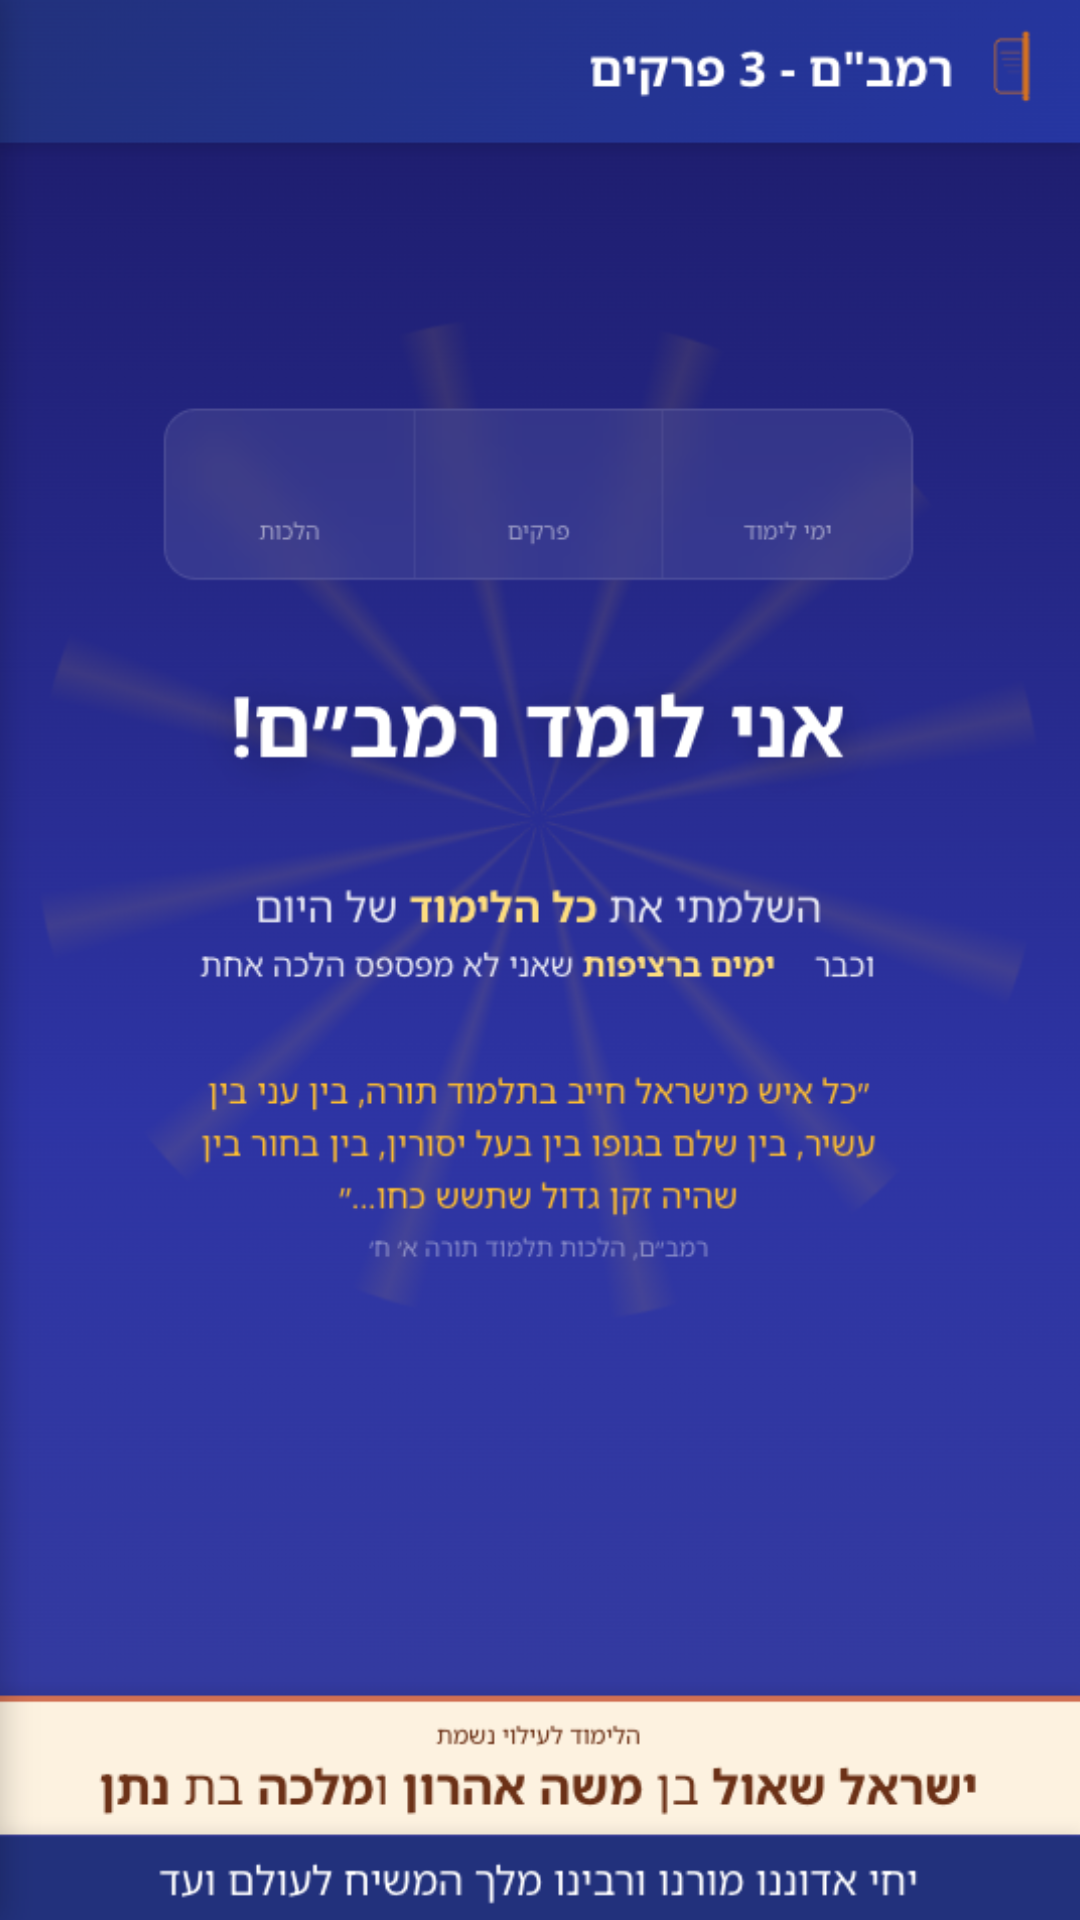
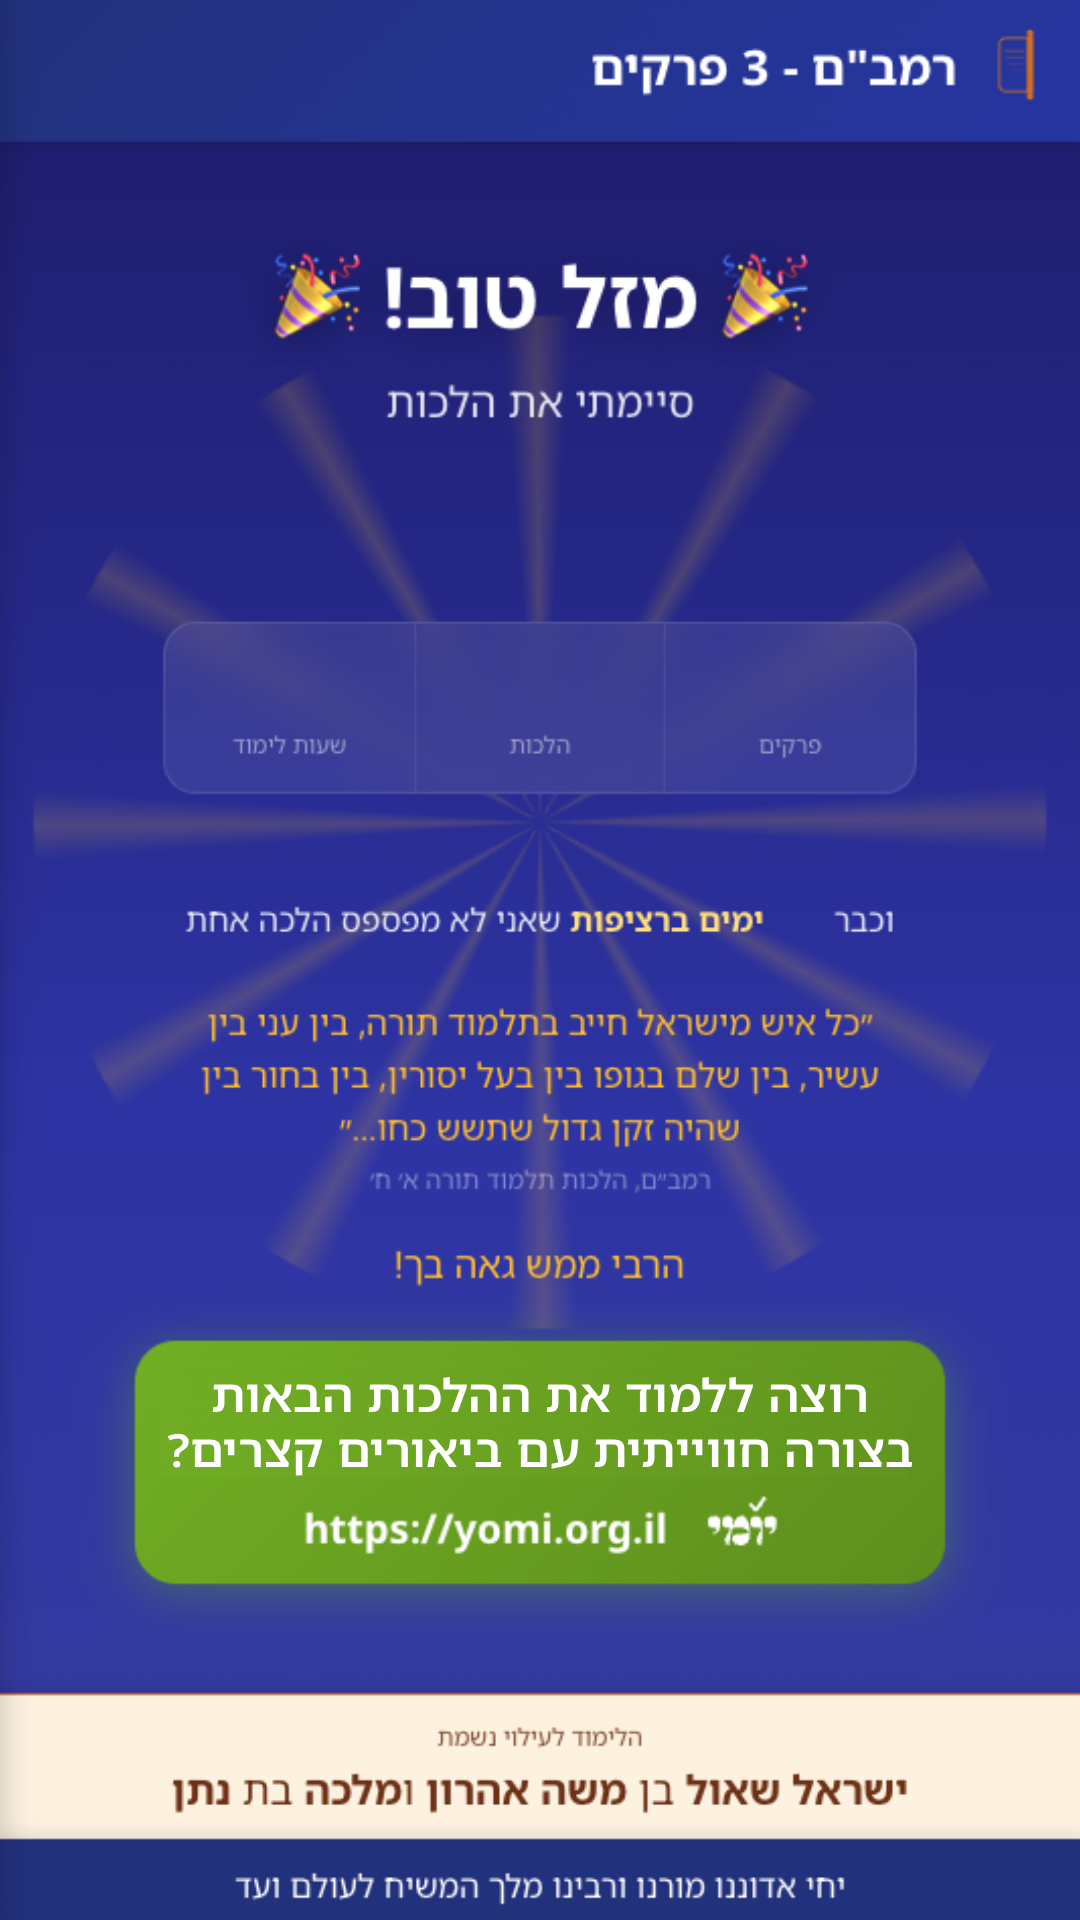
feat: add native share and clipboard for celebration
- implement PWA detection for native share with image and text
- add fallback to clipboard with both image and text
- update screenshot function to accept book celebration data
- use CORS-enabled CDN image with local fallback
- include book name, chapters, halakhot, time, and streak in screenshot
- update celebration background image layout
- copy share URL and text to clipboard alongside image
- add graceful error handling for clipboard operations

diff --git a/shared/core.js b/shared/core.js
@@ -711,7 +711,7 @@ function initCelebrationEffects() {
 
   // Capture celebration screen as image
   // Uses the external screenshot.js file for simple text overlay on background image
-  async function captureCelebrationScreenshot(days, halakhot, chapters) {
+  async function captureCelebrationScreenshot(chapterName, chapters, halachot, timelapse, days) {
     try {
       // Check if screenshot generator is loaded
       if (typeof window.generateCelebrationScreenshot !== 'function') {
@@ -720,7 +720,7 @@ function initCelebrationEffects() {
       }
 
       // Use the simple screenshot generator
-      return await window.generateCelebrationScreenshot(days, halakhot, chapters, 'https://rambam3.pages.dev');
+      return await window.generateCelebrationScreenshot(chapterName, chapters, halachot, timelapse, days);
     } catch (err) {
       console.error('Failed to capture screenshot:', err);
       return null;
@@ -728,23 +728,88 @@ function initCelebrationEffects() {
   }
 
   // Global share function for book celebration with confetti
-  window.celebrationShare = async function(bookName, totalChapters) {
+  window.celebrationShare = async function(bookName, totalChapters, totalHalakhot) {
     // Trigger confetti burst
     burst(60, 0);
     setTimeout(() => burst(40, 0), 1500);
 
-    // Build share URL based on plan
+    // Check if running as installed PWA
+    const isInstalled = window.matchMedia('(display-mode: standalone)').matches ||
+                        window.navigator.standalone === true;
+
+    // Build share URL
     const planId = window.PLAN?.id || 'rambam3';
     const shareUrl = `https://${planId}.pages.dev`;
+    const shareText = `סיימתי את הלכות ${bookName} ברמב״ם! 🎉\n\n${totalChapters} פרקים של ${totalHalakhot} הלכות\n\n${shareUrl}`;
 
-    // Build share text for book completion
-    const shareText = `סיימתי את הלכות ${bookName} ברמב״ם! 🎉\n\n${totalChapters} פרקים, רק כמה דקות ביום\n\n${shareUrl}`;
+    // Capture screenshot
+    try {
+      // Get the time spent on this book
+      const totalMinutes = getBookTime(bookName);
+      const formattedTime = formatLearningTime(totalMinutes);
 
-    // TODO: Capture screenshot with book celebration
-    // const screenshot = await captureCelebrationScreenshot(bookName, totalChapters);
+      // Get current streak (completed days)
+      const stats = computeStats();
+      const currentStreak = stats.completedDays;
 
-    // Call unified share function
-    await window.shareContent(shareText, null);
+      // captureCelebrationScreenshot expects: chapterName, chapters, halachot, timelapse, days
+      const blob = await captureCelebrationScreenshot(bookName, totalChapters, totalHalakhot, formattedTime, currentStreak);
+
+      if (!blob) {
+        alert('לא ניתן ליצור תמונה');
+        return;
+      }
+
+      // If installed as PWA, use native share
+      if (isInstalled && navigator.share && navigator.canShare) {
+        const file = new File([blob], 'celebration.png', { type: 'image/png' });
+        const shareData = {
+          text: shareText,
+          files: [file]
+        };
+
+        // Check if we can share files
+        if (navigator.canShare(shareData)) {
+          try {
+            await navigator.share(shareData);
+            return;
+          } catch (shareErr) {
+            // User cancelled or share failed, fall through to clipboard
+            if (shareErr.name !== 'AbortError') {
+              console.error('Native share failed:', shareErr);
+            }
+          }
+        }
+      }
+
+      // Fallback: Copy image and text to clipboard
+      try {
+        await navigator.clipboard.write([
+          new ClipboardItem({
+            'image/png': blob,
+            'text/plain': new Blob([shareText], { type: 'text/plain' })
+          })
+        ]);
+        alert('התמונה והטקסט הועתקו ללוח! ✅\nעכשיו אפשר להדביק בוואטסאפ או ברשתות חברתיות');
+      } catch (clipboardErr) {
+        console.error('Failed to copy to clipboard:', clipboardErr);
+        // Try copying just the image
+        try {
+          await navigator.clipboard.write([
+            new ClipboardItem({
+              'image/png': blob
+            })
+          ]);
+          alert('התמונה הועתקה ללוח! ✅\n(הטקסט לא הועתק אוטומטית)');
+        } catch (imageErr) {
+          console.error('Failed to copy image:', imageErr);
+          alert('לא ניתן להעתיק ללוח');
+        }
+      }
+    } catch (err) {
+      console.error('Failed to capture/copy screenshot:', err);
+      alert('שגיאה: ' + err.message);
+    }
   };
 }
 

diff --git a/shared/screenshot.js b/shared/screenshot.js
@@ -1,14 +1,17 @@
 // Screenshot generation for celebration sharing
 // Overlays dynamic text on a static background image
 
-async function generateCelebrationScreenshot(days, halakhot, chapters, url) {
+async function generateCelebrationScreenshot(chapterName, chapters, halachot, timelapse, days) {
   try {
-    // Load the static background image from local assets
+    // Load the static background image from ImgBB (CORS-enabled)
     const bgImage = new Image();
+    bgImage.crossOrigin = 'anonymous'; // Enable CORS
 
-    await new Promise((resolve, reject) => {
+    await new Promise((resolve) => {
       bgImage.onload = resolve;
-      bgImage.onerror = () => reject(new Error('Failed to load background image'));
+      bgImage.onerror = () => {
+        bgImage.src = 'https://i.ibb.co/ds16VmN9/celebration-bg.png';
+      };
       bgImage.src = './assets/celebration-bg.png';
     });
 
@@ -31,24 +34,23 @@ async function generateCelebrationScreenshot(days, halakhot, chapters, url) {
     ctx.textAlign = 'center';
     ctx.fillStyle = '#ffc107'; // Gold color for numbers
 
-    // Draw the 3 stats numbers (RTL order: days, chapters, halakhot)
-    const statsY = 500;
-    const statsX = [785, 535, 285]; // RTL order: days, chapters, halakhot
+    // Draw the chapterName to the app
+    ctx.font = '700 80px "Noto Sans Hebrew", -apple-system, system-ui, "Segoe UI", Roboto, sans-serif';
+    ctx.fillText(chapterName.toString(), 540, 520);
 
-    ctx.font = '700 50px "Noto Sans Hebrew", -apple-system, system-ui, "Segoe UI", Roboto, sans-serif';
-    ctx.fillText(days.toString(), statsX[0], statsY);
-    ctx.fillText(chapters.toString(), statsX[1], statsY);
-    ctx.fillText(halakhot.toString(), statsX[2], statsY);
+    // Draw the 3 stats numbers (RTL order: chapters, halachot, timelapse)
+    const statsY = 710;
+    const statsX = [785, 535, 285];
+
+    ctx.font = '400 50px "Noto Sans Hebrew", -apple-system, system-ui, "Segoe UI", Roboto, sans-serif';
+    ctx.fillText(chapters.toString(), statsX[0], statsY);
+    ctx.fillText(halachot.toString(), statsX[1], statsY);
+    ctx.fillText(timelapse.toString(), statsX[2], statsY);
 
     // Draw only the number of days (text is already in background)
     ctx.font = '700 30px "Noto Sans Hebrew", -apple-system, system-ui, "Segoe UI", Roboto, sans-serif';
     ctx.fillStyle = '#fddd7f';
-    ctx.fillText(days.toString(), 795, 976);
-
-    // Draw the url to the app
-    ctx.font = '700 36px "Noto Sans Hebrew", -apple-system, system-ui, "Segoe UI", Roboto, sans-serif';
-    ctx.fillStyle = '#ffc107';
-    ctx.fillText(url.toString(), 550, 1450);
+    ctx.fillText(days.toString(), 795, 930);
 
     // Convert to blob
     return new Promise((resolve) => {
